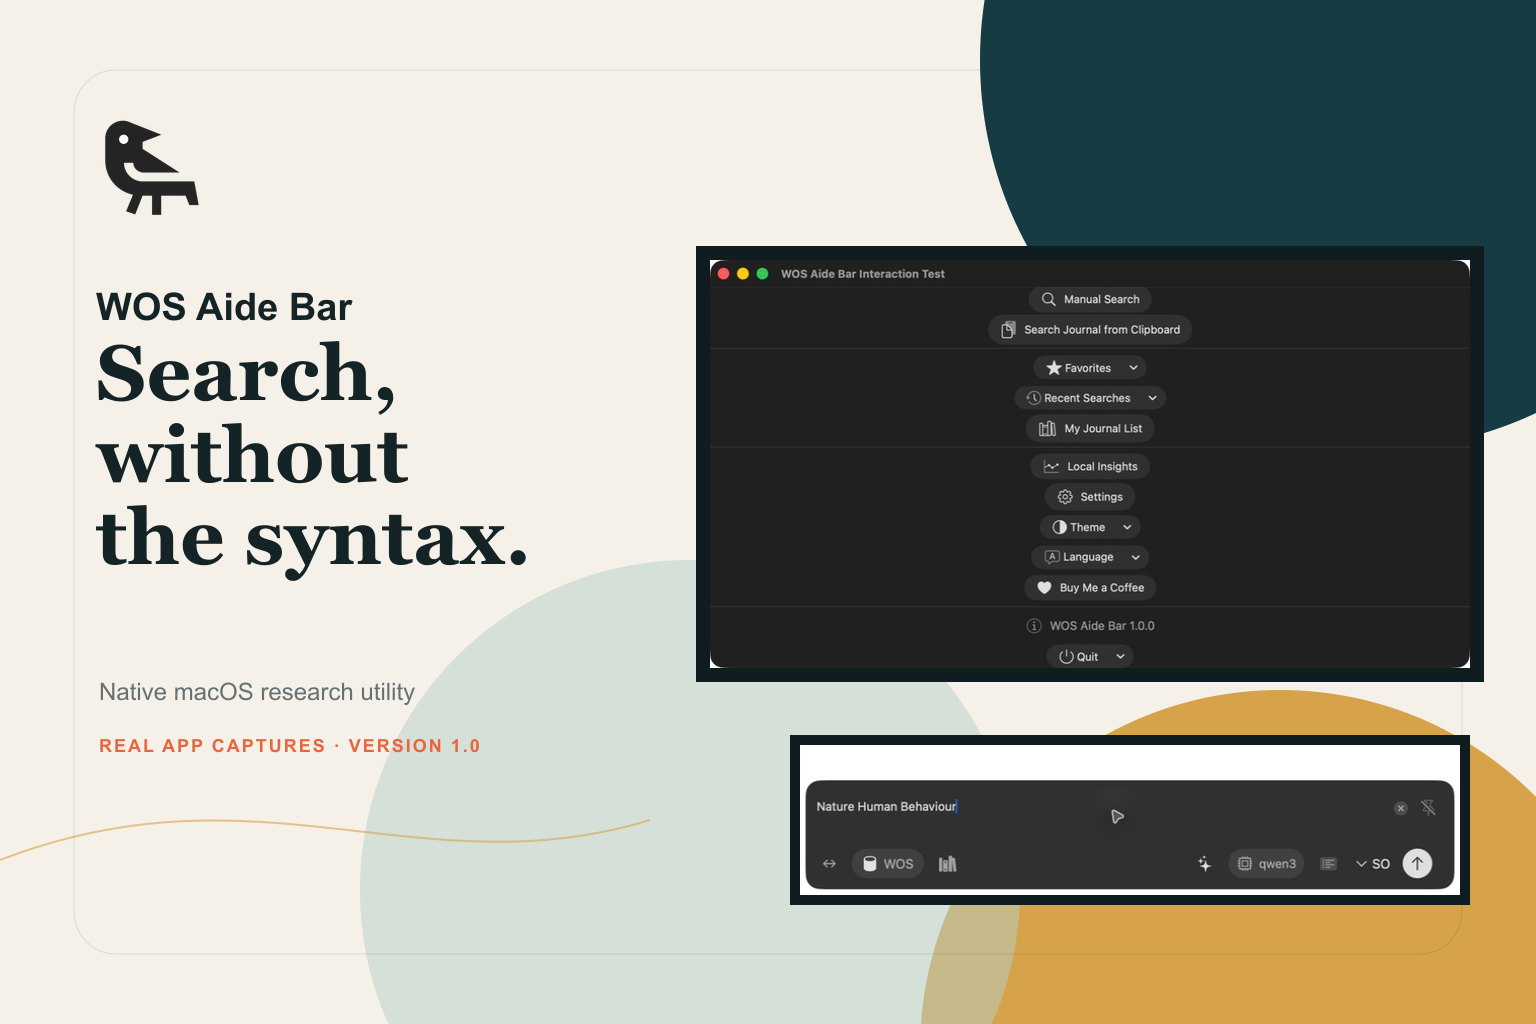
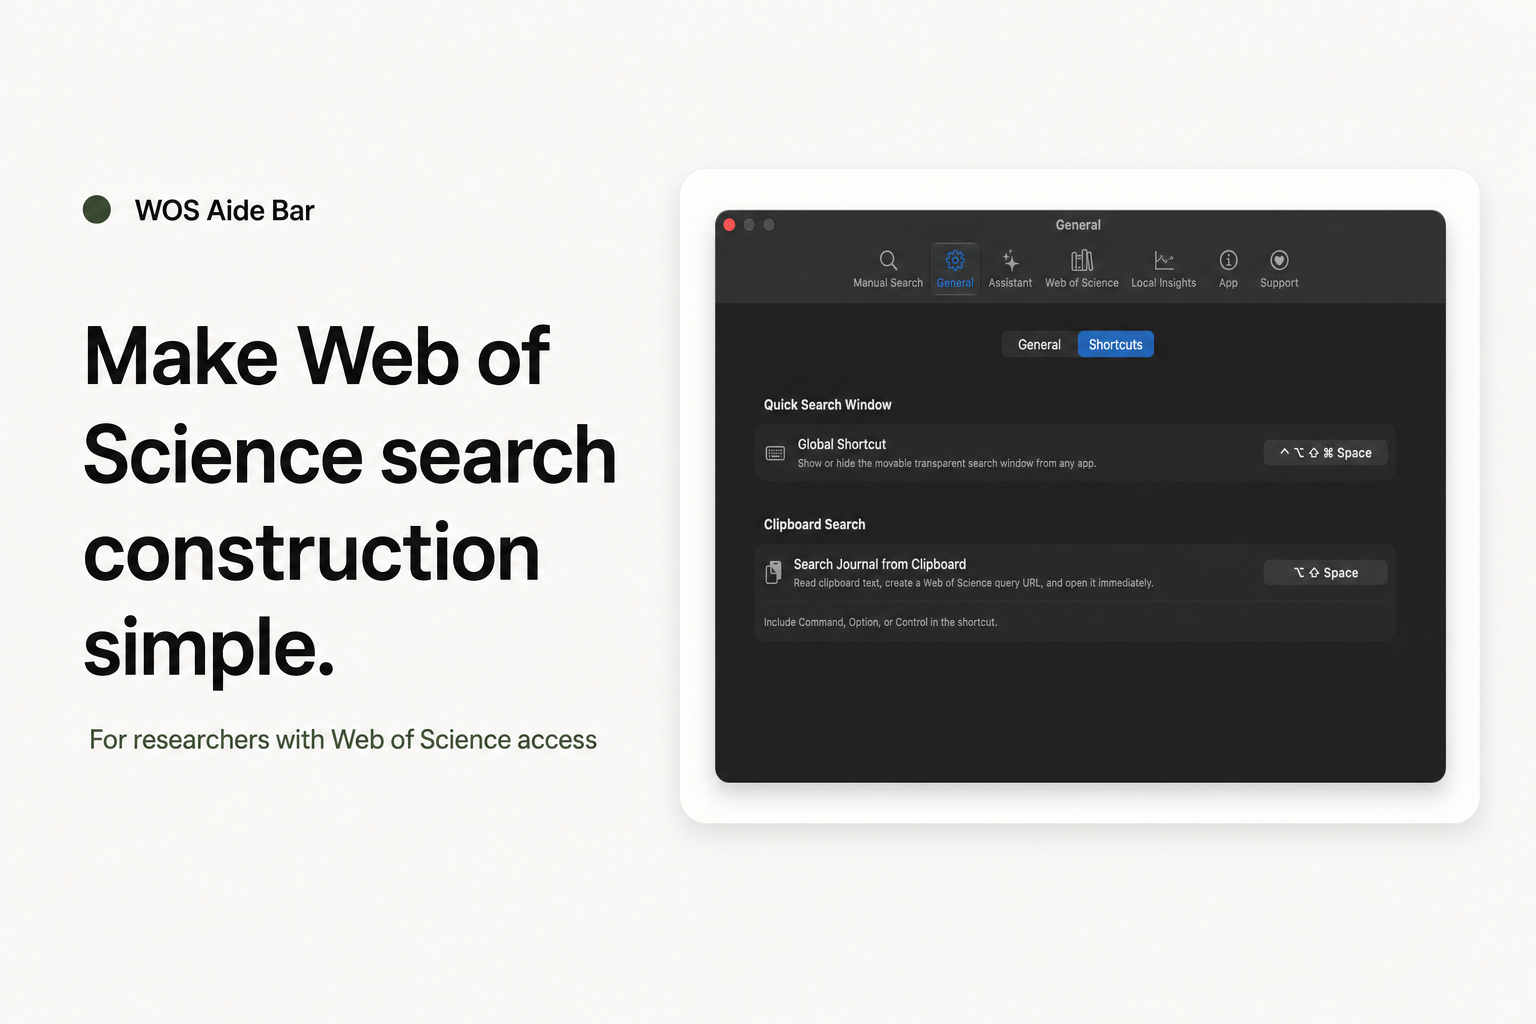
Clarify WOS access and product positioning

diff --git a/app/_lib/site-copy.ts b/app/_lib/site-copy.ts
@@ -124,13 +124,17 @@ const demoMedia = {
 export const homeCopy: Record<SiteLocale, HomeCopy> = {
   en: {
     locale: "en",
-    eyebrow: "Native macOS utility for literature search",
-    hero: "Search Web of Science without memorizing the syntax.",
+    eyebrow: "Web of Science search companion for macOS",
+    hero: "Make Web of Science search construction simple.",
     heroSecondary:
-      "Journal initials, DOI matching, AI-assisted query building, and private settings—one focused menu-bar app.",
-    support: "Get WOS Aide Bar",
-    developer: "Explore the four workflows",
-    assurances: ["No account", "Local-first data", "Explicit consent"],
+      "For researchers who already have Web of Science access: match journal initials to full titles, build and review WOS queries, and keep reusable searches organized on your Mac.",
+    support: "Product guide & availability",
+    developer: "See what it simplifies",
+    assurances: [
+      "Use your own WOS access",
+      "Local-first data",
+      "Review before opening",
+    ],
     demoControls: {
       carouselLabel: "Four live product workflows",
       previous: "Previous demo",
@@ -335,18 +339,22 @@ export const homeCopy: Record<SiteLocale, HomeCopy> = {
       "Setup, troubleshooting, and contact",
     ],
     ctaKicker: "WOS Aide Bar 1.0 · macOS 13 and later",
-    ctaTitle: "Keep search close. Keep control closer.",
-    learnMore: "Read the product guide",
+    ctaTitle: "Keep WOS search construction simple.",
+    learnMore: "Read the access & setup guide",
   },
   "zh-Hans": {
     locale: "zh-Hans",
-    eyebrow: "原生 macOS 文献检索工具",
-    hero: "无需记忆语法，直接检索 Web of Science。",
+    eyebrow: "Web of Science 检索辅助与管理工具",
+    hero: "让 Web of Science 检索构造更简单。",
     heroSecondary:
-      "期刊首字母匹配、DOI 解析、AI 辅助检索式与隐私设置，集中在一个轻量菜单栏 App。",
-    support: "获取 WOS Aide Bar",
-    developer: "查看四个工作流",
-    assurances: ["无需账户", "数据本地优先", "外发前明确同意"],
+      "面向已拥有 Web of Science 使用权限的用户：匹配期刊首字母与完整刊名，构造并检查 WOS Query，并在 Mac 上管理常用检索。",
+    support: "产品指南与获取方式",
+    developer: "查看它简化了什么",
+    assurances: [
+      "使用你自己的 WOS 权限",
+      "数据本地优先",
+      "打开检索前可审核",
+    ],
     demoControls: {
       carouselLabel: "四段真实功能演示",
       previous: "上一段演示",
@@ -533,18 +541,22 @@ export const homeCopy: Record<SiteLocale, HomeCopy> = {
     supportLabel: "支持",
     detailsDescriptions: ["App 与网站的数据处理方式", "许可、外部服务与购买", "设置、故障排查与联系"],
     ctaKicker: "WOS Aide Bar 1.0 · 适用于 macOS 13 及更高版本",
-    ctaTitle: "让检索触手可及，让控制权始终在手。",
-    learnMore: "阅读产品指南",
+    ctaTitle: "让 WOS 检索构造始终简单。",
+    learnMore: "查看使用前提与设置",
   },
   "zh-Hant": {
     locale: "zh-Hant",
-    eyebrow: "原生 macOS 文獻檢索工具",
-    hero: "無需記憶語法，直接檢索 Web of Science。",
+    eyebrow: "Web of Science 檢索輔助與管理工具",
+    hero: "讓 Web of Science 檢索構造更簡單。",
     heroSecondary:
-      "期刊首字母配對、DOI 解析、AI 輔助檢索式與隱私設定，集中在一個輕量選單列 App。",
-    support: "取得 WOS Aide Bar",
-    developer: "查看四個工作流程",
-    assurances: ["無需帳戶", "資料本機優先", "外傳前明確同意"],
+      "面向已擁有 Web of Science 使用權限的使用者：配對期刊首字母與完整刊名，構造並檢查 WOS Query，並在 Mac 上管理常用檢索。",
+    support: "產品指南與取得方式",
+    developer: "查看它簡化了什麼",
+    assurances: [
+      "使用你自己的 WOS 權限",
+      "資料本機優先",
+      "開啟檢索前可審核",
+    ],
     demoControls: {
       carouselLabel: "四段真實功能示範",
       previous: "上一段示範",
@@ -731,7 +743,7 @@ export const homeCopy: Record<SiteLocale, HomeCopy> = {
     supportLabel: "支援",
     detailsDescriptions: ["App 與網站的資料處理方式", "授權、外部服務與購買", "設定、疑難排解與聯絡"],
     ctaKicker: "WOS Aide Bar 1.0 · 適用於 macOS 13 及更高版本",
-    ctaTitle: "讓檢索觸手可及，讓控制權始終在手。",
-    learnMore: "閱讀產品指南",
+    ctaTitle: "讓 WOS 檢索構造始終簡單。",
+    learnMore: "查看使用前提與設定",
   },
 };

diff --git a/app/_components/ProductHome.tsx b/app/_components/ProductHome.tsx
@@ -10,27 +10,39 @@ export function ProductHome({ locale }: { locale: SiteLocale }) {
   const pageCopy = {
     en: {
       workflowKicker: "Four essential workflows",
-      workflowTitle: "From a rough clue to a reviewable search.",
+      workflowTitle: "From a research question to a reviewable WOS query.",
       workflowIntro:
-        "Each workflow below is captured from the current app. Choose a demo in the player, or scan the four capabilities at a glance.",
+        "WOS Aide Bar sits between your research intent and the Web of Science search page. It reduces manual syntax work without replacing Web of Science.",
+      accessLabel: "Before you search",
+      accessNote:
+        "WOS Aide Bar does not provide a Web of Science account, subscription, or database access. Sign in with your own or institutional access before using the generated search.",
       privacyNote: "No account. No tracking SDK. No developer data server.",
-      availability: "Native for macOS 13 and later",
+      availability:
+        "Requires macOS 13+ and your own Web of Science access",
     },
     "zh-Hans": {
       workflowKicker: "四个核心工作流",
-      workflowTitle: "从一个线索，到可核验的检索式。",
+      workflowTitle: "从研究问题，到可核验的 WOS Query。",
       workflowIntro:
-        "所有画面均来自当前 App。可在上方播放器切换演示，也可以在这里快速浏览四项能力。",
+        "WOS Aide Bar 位于你的研究意图与 Web of Science 检索页面之间，减少手动编写语法的工作，但不会替代 Web of Science。",
+      accessLabel: "使用前提",
+      accessNote:
+        "WOS Aide Bar 不提供 Web of Science 账户、订阅或数据库访问权限。请先通过个人或机构权限登录 WOS，再使用 App 生成并打开检索。",
       privacyNote: "无需账户，无跟踪 SDK，无开发者数据服务器。",
-      availability: "原生支持 macOS 13 及以上版本",
+      availability:
+        "需要 macOS 13 及以上版本，以及你自己的 Web of Science 使用权限",
     },
     "zh-Hant": {
       workflowKicker: "四個核心工作流",
-      workflowTitle: "從一個線索，到可核驗的檢索式。",
+      workflowTitle: "從研究問題，到可核驗的 WOS Query。",
       workflowIntro:
-        "所有畫面均來自目前 App。可在上方播放器切換示範，也可以在這裡快速瀏覽四項能力。",
+        "WOS Aide Bar 位於你的研究意圖與 Web of Science 檢索頁面之間，減少手動編寫語法的工作，但不會取代 Web of Science。",
+      accessLabel: "使用前提",
+      accessNote:
+        "WOS Aide Bar 不提供 Web of Science 帳戶、訂閱或資料庫存取權限。請先透過個人或機構權限登入 WOS，再使用 App 產生並開啟檢索。",
       privacyNote: "無需帳戶，無追蹤 SDK，無開發者資料伺服器。",
-      availability: "原生支援 macOS 13 及以上版本",
+      availability:
+        "需要 macOS 13 及以上版本，以及你自己的 Web of Science 使用權限",
     },
   }[locale];
 
@@ -46,6 +58,10 @@ export function ProductHome({ locale }: { locale: SiteLocale }) {
               </p>
               <h1>{copy.hero}</h1>
               <p className="product-hero-lede">{copy.heroSecondary}</p>
+              <p className="access-note">
+                <strong>{pageCopy.accessLabel}</strong>
+                {pageCopy.accessNote}
+              </p>
               <div className="hero-actions">
                 <Link className="button button-primary" href="/support">
                   {copy.support}

diff --git a/app/layout.tsx b/app/layout.tsx
@@ -17,16 +17,16 @@ const siteOrigin =
   process.env.NEXT_PUBLIC_SITE_ORIGIN ??
   "https://wosaide.github.io";
 const basePath = process.env.NEXT_PUBLIC_BASE_PATH ?? "";
-const socialImage = `${siteOrigin}${basePath}/og-wosaide.png`;
+const socialImage = `${siteOrigin}${basePath}/og.png`;
 
 export const metadata: Metadata = {
   metadataBase: new URL(`${siteOrigin}${basePath}/`),
   title: {
-    default: "WOS Aide Bar — Search, without the syntax",
+    default: "WOS Aide Bar — Make WOS search construction simple",
     template: "%s · WOS Aide Bar",
   },
   description:
-    "A private, native macOS menu-bar utility for building Web of Science search URLs.",
+    "A macOS companion for researchers with Web of Science access: match journal initials, build WOS queries, and organize reusable searches.",
   applicationName: "WOS Aide Bar",
   authors: [{ name: "IIDEV" }],
   icons: {
@@ -35,23 +35,23 @@ export const metadata: Metadata = {
   },
   openGraph: {
     type: "website",
-    title: "WOS Aide Bar — Search, without the syntax",
+    title: "WOS Aide Bar — Make WOS search construction simple",
     description:
-      "Turn journal names and research ideas into precise Web of Science searches from your Mac menu bar.",
+      "For researchers with Web of Science access: match journal initials, build WOS queries, and organize reusable searches.",
     images: [
       {
         url: socialImage,
         width: 1536,
         height: 1024,
-        alt: "WOS Aide Bar product preview with the native macOS settings interface",
+        alt: "WOS Aide Bar makes Web of Science search construction simple",
       },
     ],
   },
   twitter: {
     card: "summary_large_image",
-    title: "WOS Aide Bar — Search, without the syntax",
+    title: "WOS Aide Bar — Make WOS search construction simple",
     description:
-      "A private, native macOS menu-bar utility for Web of Science search URLs.",
+      "A macOS companion for researchers with Web of Science access.",
     images: [socialImage],
   },
 };

diff --git a/app/academic.css b/app/academic.css
@@ -159,11 +159,31 @@ main[lang^="zh"] .product-hero h1 {
   max-width: 500px;
 }
 
+.access-note {
+  border-left: 2px solid var(--navy);
+  color: var(--muted);
+  font-size: 11px;
+  line-height: 1.6;
+  margin: 22px 0 0;
+  max-width: 500px;
+  padding-left: 13px;
+}
+
+.access-note strong {
+  color: var(--ink);
+  display: block;
+  font-family: var(--font-geist-mono), monospace;
+  font-size: 9px;
+  letter-spacing: 0.08em;
+  margin-bottom: 4px;
+  text-transform: uppercase;
+}
+
 .hero-actions {
   display: flex;
   flex-wrap: wrap;
   gap: 10px;
-  margin-top: 30px;
+  margin-top: 24px;
 }
 
 .button {
